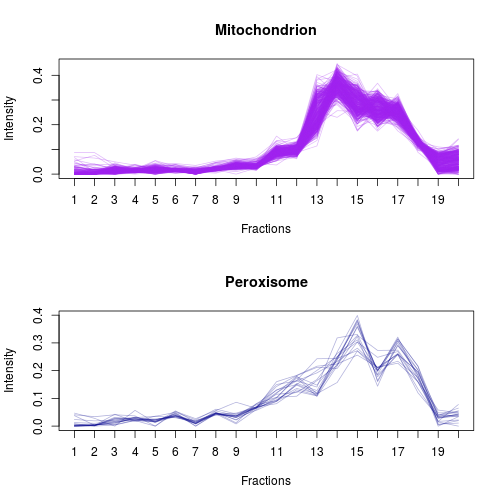
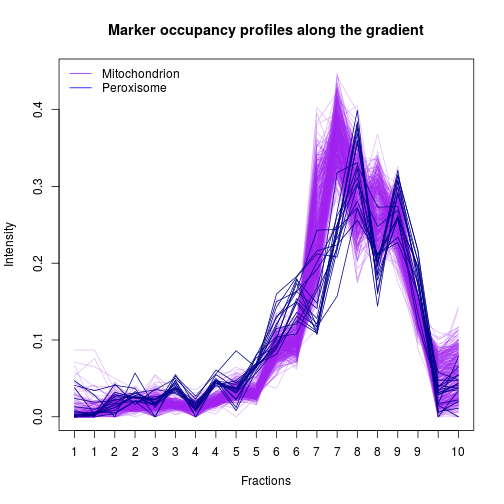
regenerate plotDist with fixed pRoloc

diff --git a/bioc-workflow.md b/bioc-workflow.md
@@ -605,7 +605,7 @@ hyperLOPIT
 ## experimentData: use 'experimentData(object)'
 ## Annotation:  
 ## - - - Processing information - - -
-## Combined [6725,20] and [6268,10] MSnSets Tue Jun 14 20:16:22 2016 
+## Combined [6725,20] and [6268,10] MSnSets Tue Jun 14 20:36:49 2016 
 ##  MSnbase version: 1.19.3
 ```
 
@@ -663,10 +663,10 @@ hyperLOPIT
 ## experimentData: use 'experimentData(object)'
 ## Annotation:  
 ## - - - Processing information - - -
-## Combined [6725,20] and [6268,10] MSnSets Tue Jun 14 20:16:22 2016 
-## Subset [6725,20][5032,20] Tue Jun 14 20:16:22 2016 
-## Removed features with more than 0 NAs: Tue Jun 14 20:16:22 2016 
-## Dropped featureData's levels Tue Jun 14 20:16:22 2016 
+## Combined [6725,20] and [6268,10] MSnSets Tue Jun 14 20:36:49 2016 
+## Subset [6725,20][5032,20] Tue Jun 14 20:36:49 2016 
+## Removed features with more than 0 NAs: Tue Jun 14 20:36:49 2016 
+## Dropped featureData's levels Tue Jun 14 20:36:49 2016 
 ##  MSnbase version: 1.19.3
 ```
 
@@ -880,7 +880,7 @@ the apparent overlap in the two first PCs.
 par(mfrow = c(1, 2))
 plot2D(hl, fcol = "markers", main = "pRolocmarkers for mouse")
 addLegend(hl, fcol = "markers", where = "bottomleft", cex = .7)
-plot2D(hl, dims = c(1, 7))
+plot2D(hl, dims = c(1, 7), main = "Marker resolution along PC 1 and 7")
 ```
 
 ![plot of chunk plotmarkers](figure/plotmarkers-1.png)
@@ -909,26 +909,23 @@ efficiently visualise the complete dataset and assess the relative
 separation of different sub-cellular niches, comparing profiles of a
 few marker clusters is useful to assess how exactly they differ (in
 terms of peak fractions, for example). Below, we plot the profile of
-the mitochondrial and peroxisome markers. 
-
+the mitochondrial and peroxisome markers to highlight the differences
+in profiles between these two sets of markers along the 6th and 7th
+fractions, as represented above along the 7th PC on the PCA plot.
 
 
 ```r
-par(mfrow = c(2, 1))
-o <- order(hyperLOPIT$Fraction.No)
-cls <- c(Peroxisome = "darkblue", Mitochondrion = "purple")
-for (k in c("Mitochondrion", "Peroxisome")) {
-    plotDist(hyperLOPIT[fData(hyperLOPIT)$markers == k, o],
-             pcol = cls[k])
-    title(main = k)
-}
+hlo <- hyperLOPIT[, order(hyperLOPIT$Fraction.No)]
+plotDist(hlo[fData(hlo)$markers == "Mitochondrion", ],
+         pcol = "purple", fractions = "Fraction.No")
+title(main = "Marker occupancy profiles along the gradient")
+matlines(t(exprs(hlo[fData(hlo)$markers == "Peroxisome", ])),
+         lty = 1, col = "darkblue", type = "l")
+legend("topleft", c("Mitochondrion", "Peroxisome"),
+       lty = 1, col = c("purple", "blue"), bty = "n")
 ```
 
 ![plot of chunk plotDist](figure/plotDist-1.png)
-
-
-
-
 
 # Replication
 
@@ -1208,7 +1205,7 @@ sessionInfo()
 ## [8] datasets  base     
 ## 
 ## other attached packages:
-##  [1] pRolocdata_1.11.0    pRoloc_1.13.4        MLInterfaces_1.53.0 
+##  [1] pRolocdata_1.11.0    pRoloc_1.13.5        MLInterfaces_1.53.0 
 ##  [4] cluster_2.0.4        annotate_1.51.0      XML_3.98-1.4        
 ##  [7] AnnotationDbi_1.35.3 IRanges_2.7.1        S4Vectors_0.11.2    
 ## [10] MSnbase_1.21.7       ProtGenerics_1.5.0   BiocParallel_1.7.2  
